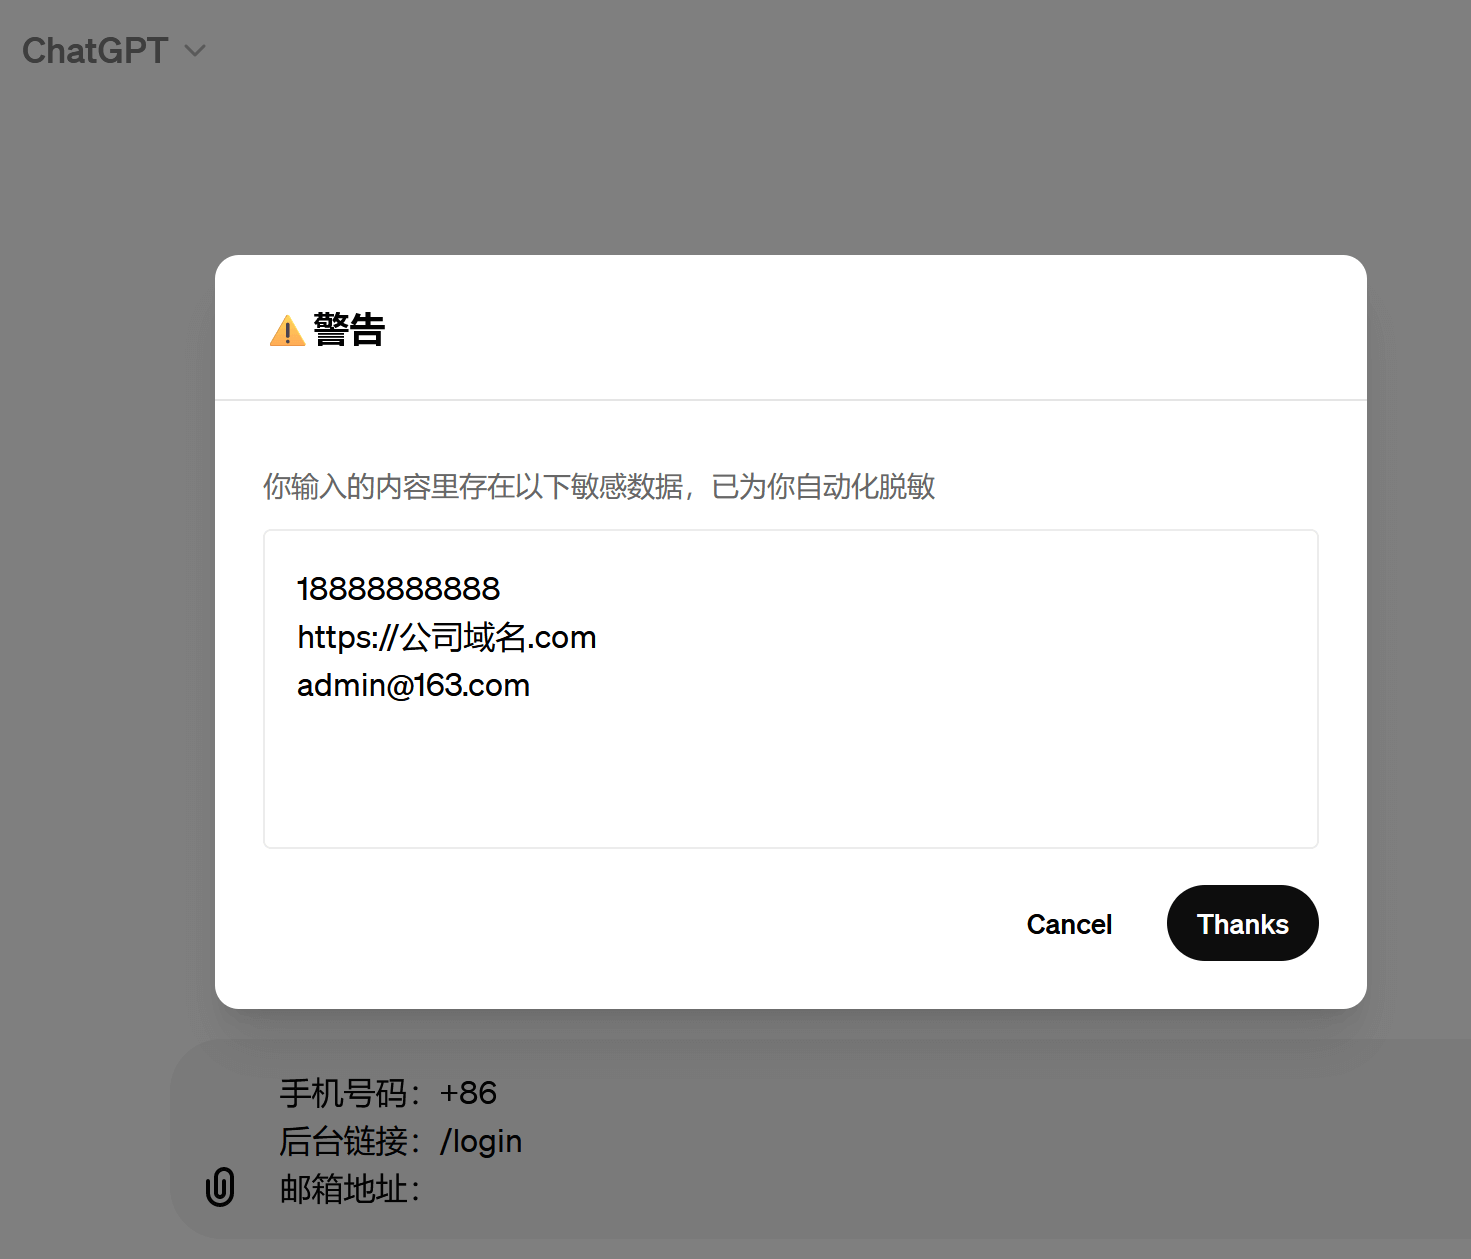
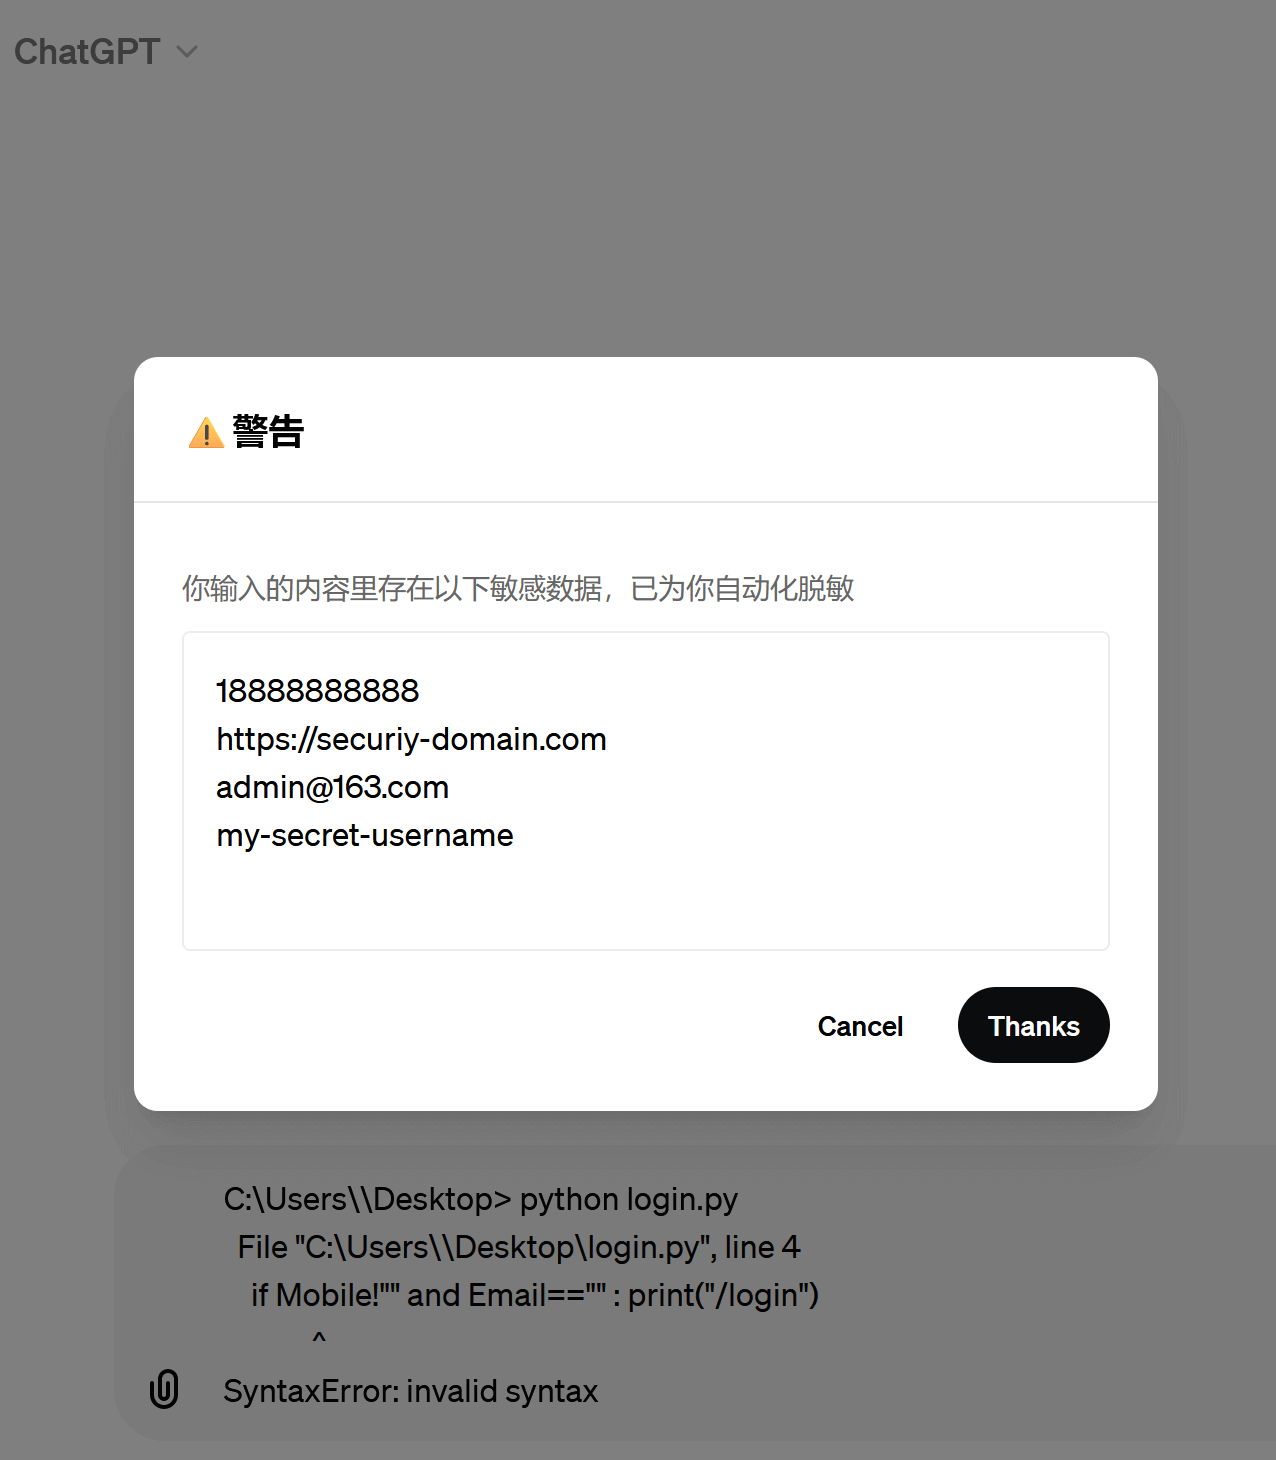
更新展示图

Changed region(s): [[0.0917, 0.1859, 0.9475, 0.9603], [0.0, 0.0, 0.1223, 0.062], [0.6418, 0.6815, 0.703, 0.7125]]

diff --git a/docs/README_EN.md b/docs/README_EN.md
@@ -31,7 +31,7 @@
 
 | No. | Screenshot |
 | --- | --- |
-| 1 | Light Theme + Page Purification<br><img src="/assets/index_light.png" width="750"></img> |
+| 1 | Light Theme + Page Purification<br><img src="/assets/index_light_en.png" width="750"></img> |
 | 2 | Light Theme + Meticulousness + Large Screen Display + Constant Updates<br><img src="/assets/chat_light.png" width="750"></img> |
 | 3 | Dark Theme + Meticulousness + Large Screen Display + Constant Updates<br><img src="/assets/chat_dark.png" width="750"></img> |
 | 4 | Mobile + Page Purification<br><img src="/assets/index_mobile.png" width="180"></img> |
@@ -263,16 +263,20 @@ Official Channels✅:
 
 Here's a demonstration: If you type or paste this prompt into the chat box:
 ```
-Mobile: +86 18888888888
-Url: https://securiy-domain.com/login
-Email: admin@163.com
+C:\Users\my-secret-username\Desktop> python login.py
+  File "C:\Users\my-secret-username\Desktop\login.py", line 4
+    if Mobile!"18888888888" and Email=="admin@163.com" : print("https://securiy-domain.com/login")
+             ^
+SyntaxError: invalid syntax
 ```
 
 will be immediately corrected to:
 ```
-Mobile: +86
-Url: /login
-Email: 
+C:\Users\\Desktop> python login.py
+  File "C:\Users\\Desktop\login.py", line 4
+    if Mobile!"" and Email=="" : print("/login")
+             ^
+SyntaxError: invalid syntax
 ```
 
 <img src="/assets/warn_data_security.png" width="600"></img>

diff --git a/README.md b/README.md
@@ -262,16 +262,20 @@
 
 演示一下效果，如果向对话框编写、粘贴这段提示词：
 ```
-手机号码：+86 18888888888
-后台链接：https://securiy-domain.com/login
-邮箱地址：admin@163.com
+C:\Users\my-secret-username\Desktop> python login.py
+  File "C:\Users\my-secret-username\Desktop\login.py", line 4
+    if Mobile!"18888888888" and Email=="admin@163.com" : print("https://securiy-domain.com/login")
+             ^
+SyntaxError: invalid syntax
 ```
 
 则会立刻被纠正为：
 ```
-手机号码：+86
-后台链接：/login
-邮箱地址：
+C:\Users\\Desktop> python login.py
+  File "C:\Users\\Desktop\login.py", line 4
+    if Mobile!"" and Email=="" : print("/login")
+             ^
+SyntaxError: invalid syntax
 ```
 
 <img src="/assets/warn_data_security.png" width="600"></img>
